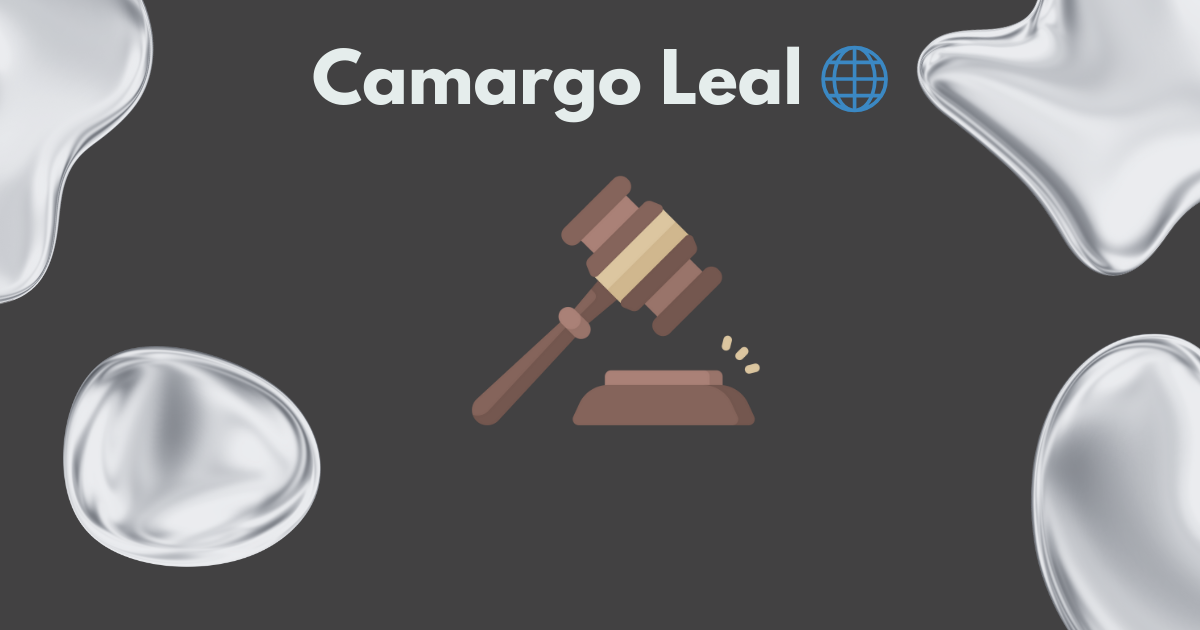
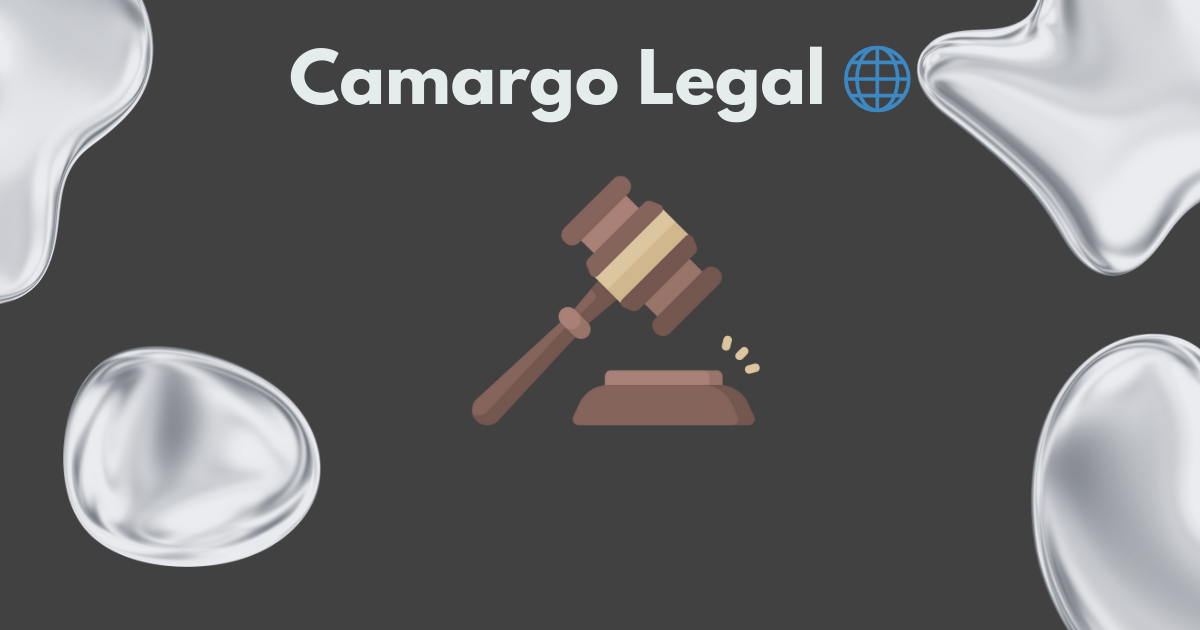
update image

Changed region(s): [[0.2467, 0.0603, 0.7708, 0.2111]]

diff --git a/src/app/constants/portfolio.ts b/src/app/constants/portfolio.ts
@@ -37,7 +37,7 @@ export const portfolioItems: PortfolioItem[] = [
     category: 'sites',
   },
   {
-    name: "Camargo Leal",
+    name: "Camargo Legal",
     description: "Landing page especializada para advocacia trabalhista, com design profissional e estratégia focada em captação de leads. Interface moderna que transmite confiança e autoridade, ideal para conectar o escritório com potenciais clientes.",
     link: "https://firebase-lawyer-studio.vercel.app/",
     image: "/portfolio/lawyer-camargo.png",
